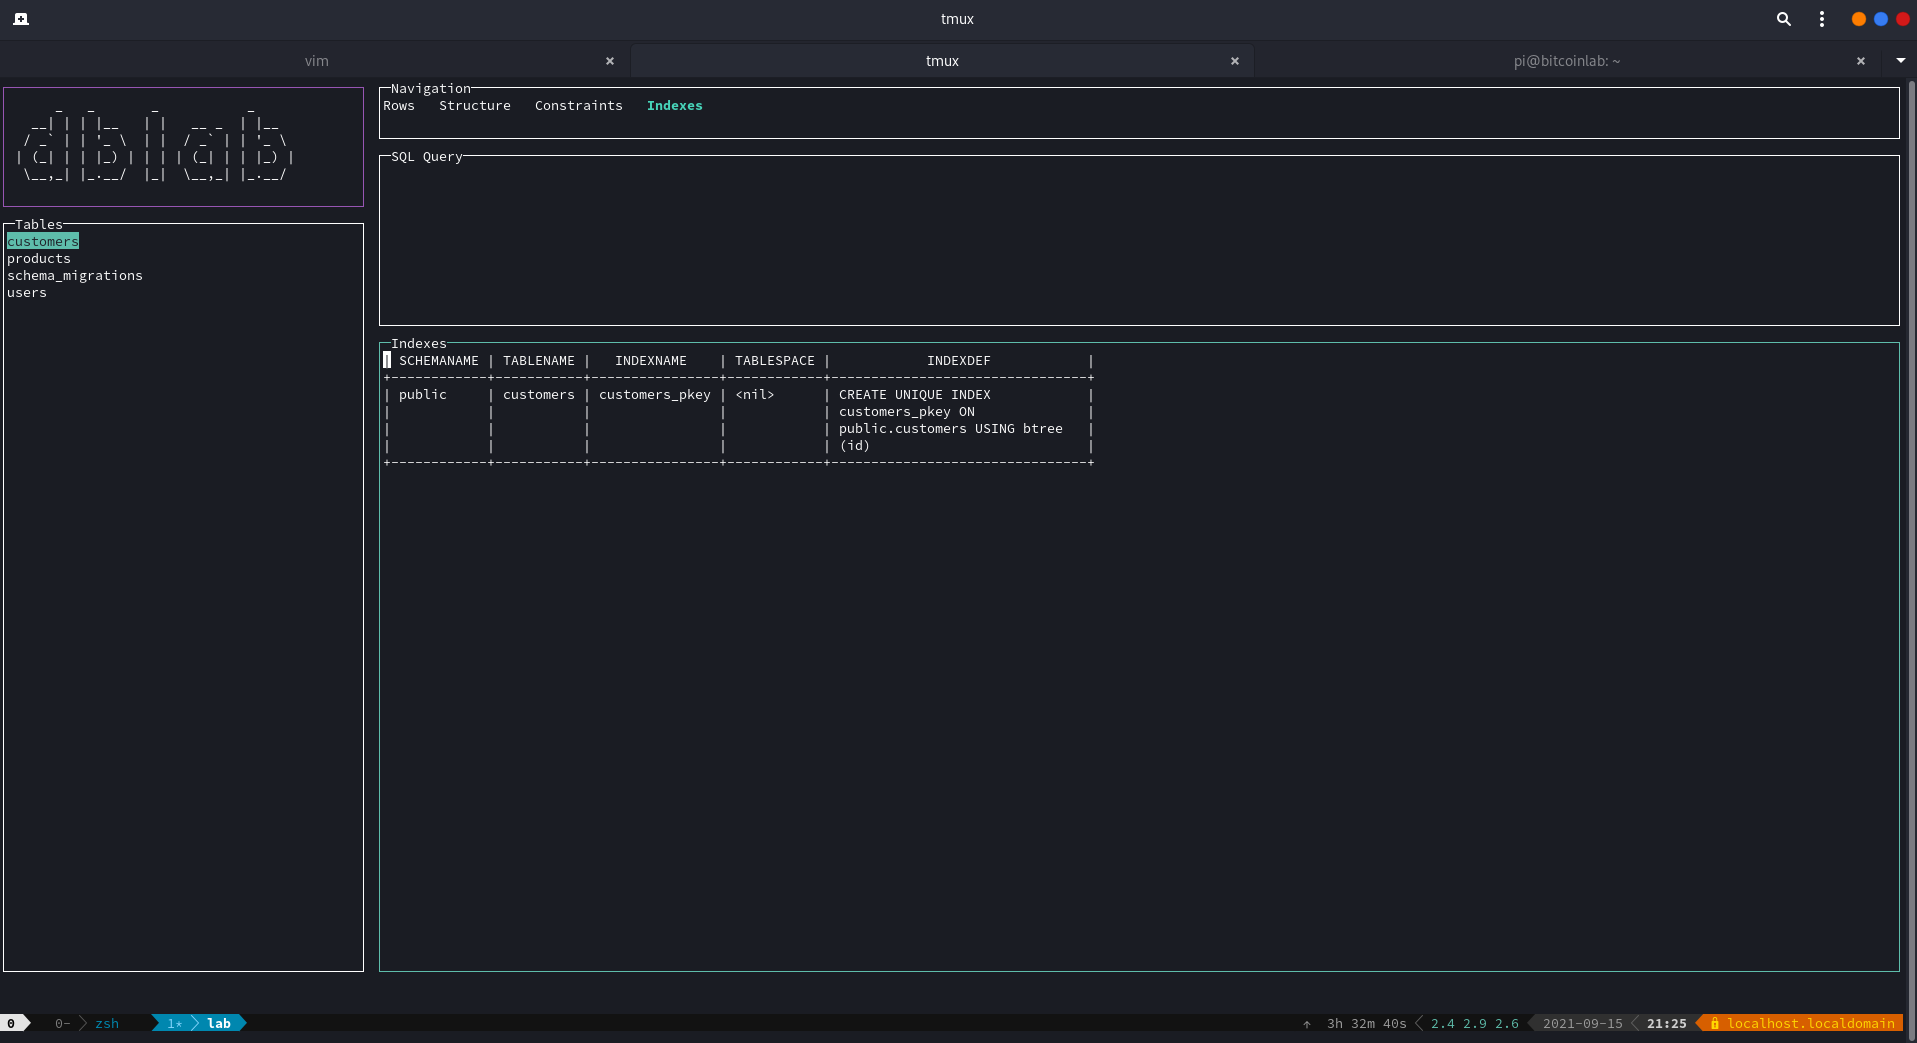
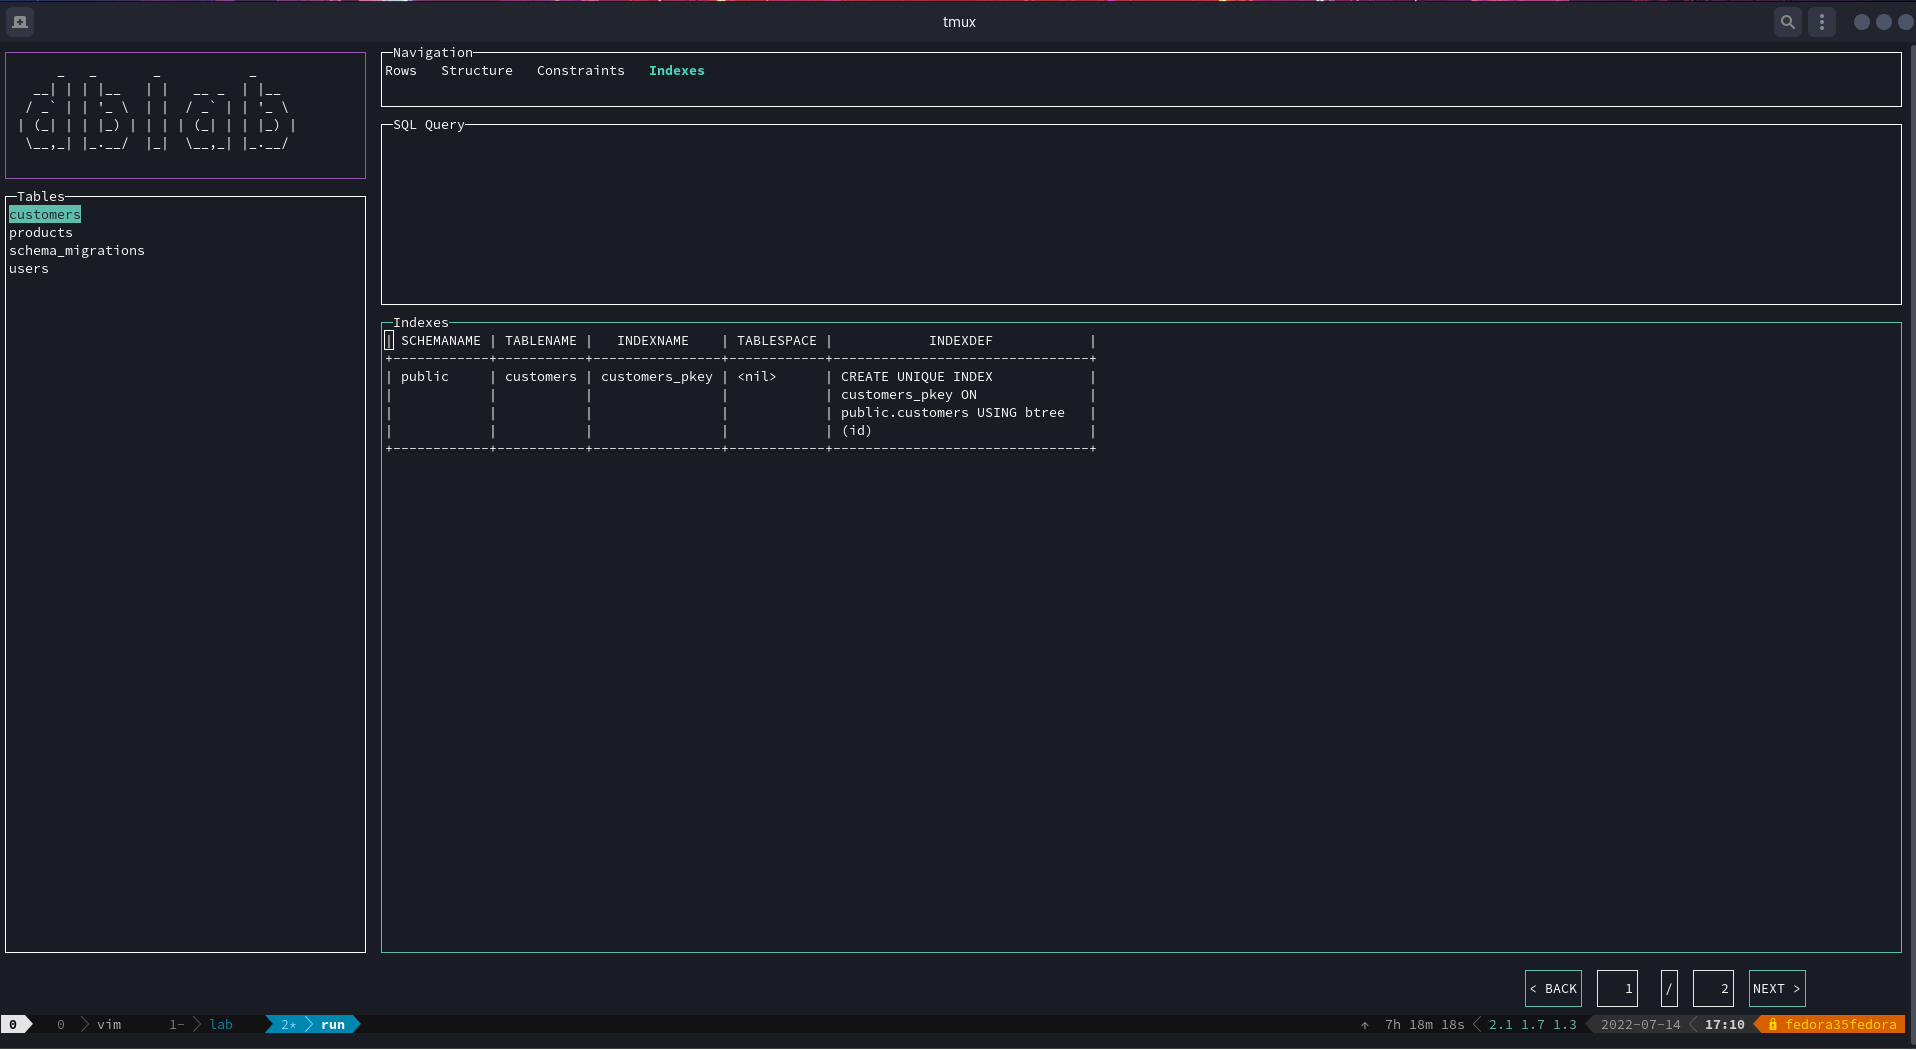
docs(readme): add screenshots with the pagination feature to the readme file

diff --git a/README.md b/README.md
@@ -138,6 +138,8 @@ Now, there's a menu to navigate between hidden views by just clicking on the des
 <img src="screenshots/constraints-view.png" />
 <img src="screenshots/indexes-view.png" />
 
+As you may have noticed, navigation has already added, so every time you query the content of a listed table, the result set is going to be paginated. This allows to the user dealing with large tables, optimizing resources.
+
 ### Key Bindings
 Key                                     | Description
 ----------------------------------------|---------------------------------------
